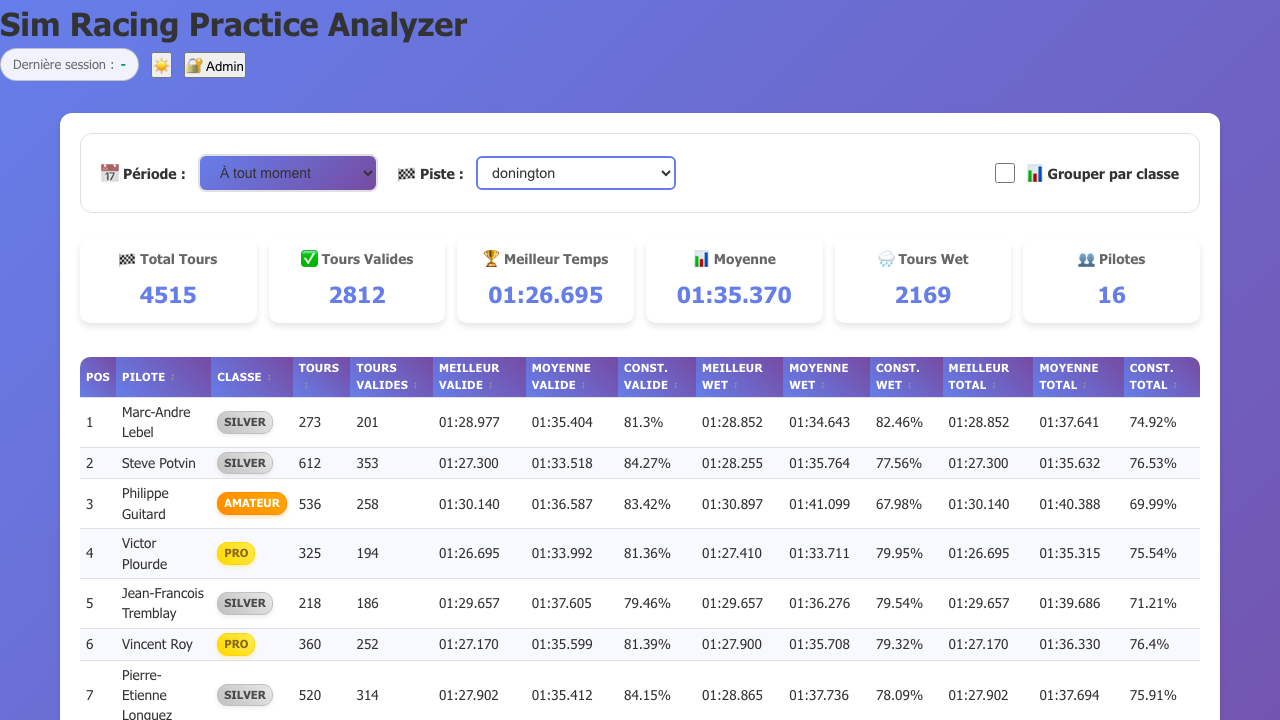
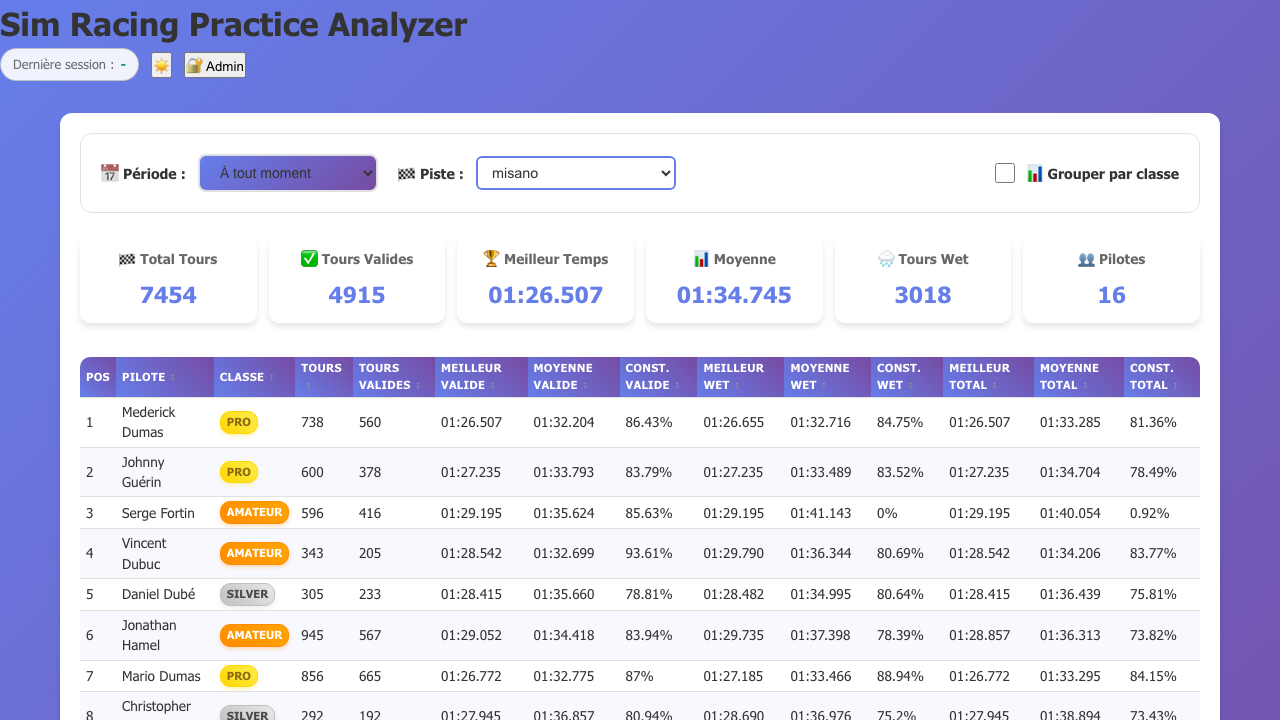
feat: Sélection automatique piste la plus récente
✅ useFirebaseData: retourne sessions brutes
✅ useFilters: implémente getMostRecentTrack() de la prod
✅ Sélection auto de la piste la plus récente (misano)
✅ Test Playwright: misano sélectionné comme en prod

⚠  PROBLÈME IDENTIFIÉ: 30 pilotes en prod vs 16 en React
- Même piste, même premier pilote, mais nombre différent
- Besoin d'analyser la logique de regroupement des sessions

diff --git a/playwright-report/index.html b/playwright-report/index.html
@@ -82,4 +82,4 @@ Error generating stack: `+n.message+`
     <div id='root'></div>
   </body>
 </html>
[2 lines of base64/hex data omitted]

diff --git a/frontend/src/hooks/useFilters.js b/frontend/src/hooks/useFilters.js
@@ -12,7 +12,7 @@
 import { useState, useMemo, useEffect } from 'react';
 import { DURATIONS } from '../utils/constants';
 
-export function useFilters(drivers = []) {
+export function useFilters(drivers = [], sessions = []) {
   const [periodFilter, setPeriodFilter] = useState('all');
   const [trackFilter, setTrackFilter] = useState('');
   const [groupByClass, setGroupByClass] = useState(false);
@@ -30,14 +30,38 @@ export function useFilters(drivers = []) {
     return Array.from(tracks).sort();
   }, [drivers]);
   
-  // Initialiser trackFilter avec la première piste quand les pistes sont chargées
-  // (COPIE de updateSessionSelect() dans script-public.js ligne 1556)
+  // Trouver la piste avec la session la plus récente (COPIE de getMostRecentTrack() ligne 1506)
+  const mostRecentTrack = useMemo(() => {
+    if (!sessions || sessions.length === 0) return null;
+    
+    let mostRecentTrack = null;
+    let mostRecentDate = new Date(0); // Date très ancienne
+    
+    sessions.forEach(session => {
+      if (session.Date && session.trackName) {
+        const sessionDate = new Date(session.Date);
+        if (sessionDate > mostRecentDate) {
+          mostRecentDate = sessionDate;
+          mostRecentTrack = session.trackName;
+        }
+      }
+    });
+    
+    return mostRecentTrack;
+  }, [sessions]);
+  
+  // Initialiser trackFilter avec la piste la plus récente (COPIE de updateSessionSelect() ligne 1570)
   useEffect(() => {
     if (availableTracks.length > 0 && !trackFilter) {
-      // Sélectionner automatiquement la première piste (ordre alphabétique)
-      setTrackFilter(availableTracks[0]);
+      // Sélectionner automatiquement la piste avec la session la plus récente
+      const defaultTrack = mostRecentTrack && availableTracks.includes(mostRecentTrack)
+        ? mostRecentTrack
+        : availableTracks[0]; // Fallback sur la première si pas trouvée
+      
+      console.log(`🏁 Piste sélectionnée automatiquement: ${defaultTrack}`);
+      setTrackFilter(defaultTrack);
     }
-  }, [availableTracks, trackFilter]);
+  }, [availableTracks, trackFilter, mostRecentTrack]);
 
   // Application des filtres avec memoization
   const filteredDrivers = useMemo(() => {

diff --git a/frontend/src/hooks/useFirebaseData.js b/frontend/src/hooks/useFirebaseData.js
@@ -19,6 +19,7 @@ const USE_MOCK_DATA = false; // 🔥 Test Firebase Firestore (collection session
 export function useFirebaseData() {
   const [data, setData] = useState(null);
   const [metadata, setMetadata] = useState(null);
+  const [sessions, setSessions] = useState([]); // Pour trouver la piste la plus récente
   const [loading, setLoading] = useState(true);
   const [error, setError] = useState(null);
 
@@ -102,6 +103,7 @@ export function useFirebaseData() {
           
           setData({ drivers: driversArray });
           setMetadata(metaData);
+          setSessions(sessions); // Stocker les sessions pour trouver la plus récente
         }
       } catch (err) {
         console.error('Error loading Firebase data:', err);
@@ -188,6 +190,7 @@ export function useFirebaseData() {
         
         setData({ drivers: driversArray });
         setMetadata(metaData);
+        setSessions(sessions);
       }
     } catch (err) {
       console.error('Error reloading data:', err);
@@ -200,6 +203,7 @@ export function useFirebaseData() {
   return {
     data,
     metadata,
+    sessions,
     loading,
     error,
     reload

diff --git a/frontend/src/App.jsx b/frontend/src/App.jsx
@@ -14,7 +14,7 @@ import { useFirebaseData } from './hooks/useFirebaseData';
 import './App.css';
 
 function App() {
-  const { data, metadata, loading, error } = useFirebaseData();
+  const { data, metadata, sessions, loading, error } = useFirebaseData();
   const [showLoginModal, setShowLoginModal] = useState(false);
 
   // Extraire les pilotes des données
@@ -52,7 +52,7 @@ function App() {
         
         <main className="main-content">
           <Routes>
-            <Route path="/" element={<HomePage drivers={drivers} />} />
+            <Route path="/" element={<HomePage drivers={drivers} sessions={sessions} />} />
             <Route path="/circuit/:circuitId/pilote/:pilotId" element={<PilotePage drivers={drivers} />} />
           </Routes>
         </main>

diff --git a/frontend/src/pages/HomePage.jsx b/frontend/src/pages/HomePage.jsx
@@ -11,7 +11,7 @@ import { GlobalStats } from '../components/layout/GlobalStats';
 import { useFilters } from '../hooks/useFilters';
 import { useSorting } from '../hooks/useSorting';
 
-export function HomePage({ drivers }) {
+export function HomePage({ drivers, sessions = [] }) {
   const navigate = useNavigate();
 
   // Hooks pour filtres et tri
@@ -24,7 +24,7 @@ export function HomePage({ drivers }) {
     setGroupByClass,
     availableTracks,
     filteredDrivers
-  } = useFilters(drivers);
+  } = useFilters(drivers, sessions);
 
   const {
     sortColumn,
